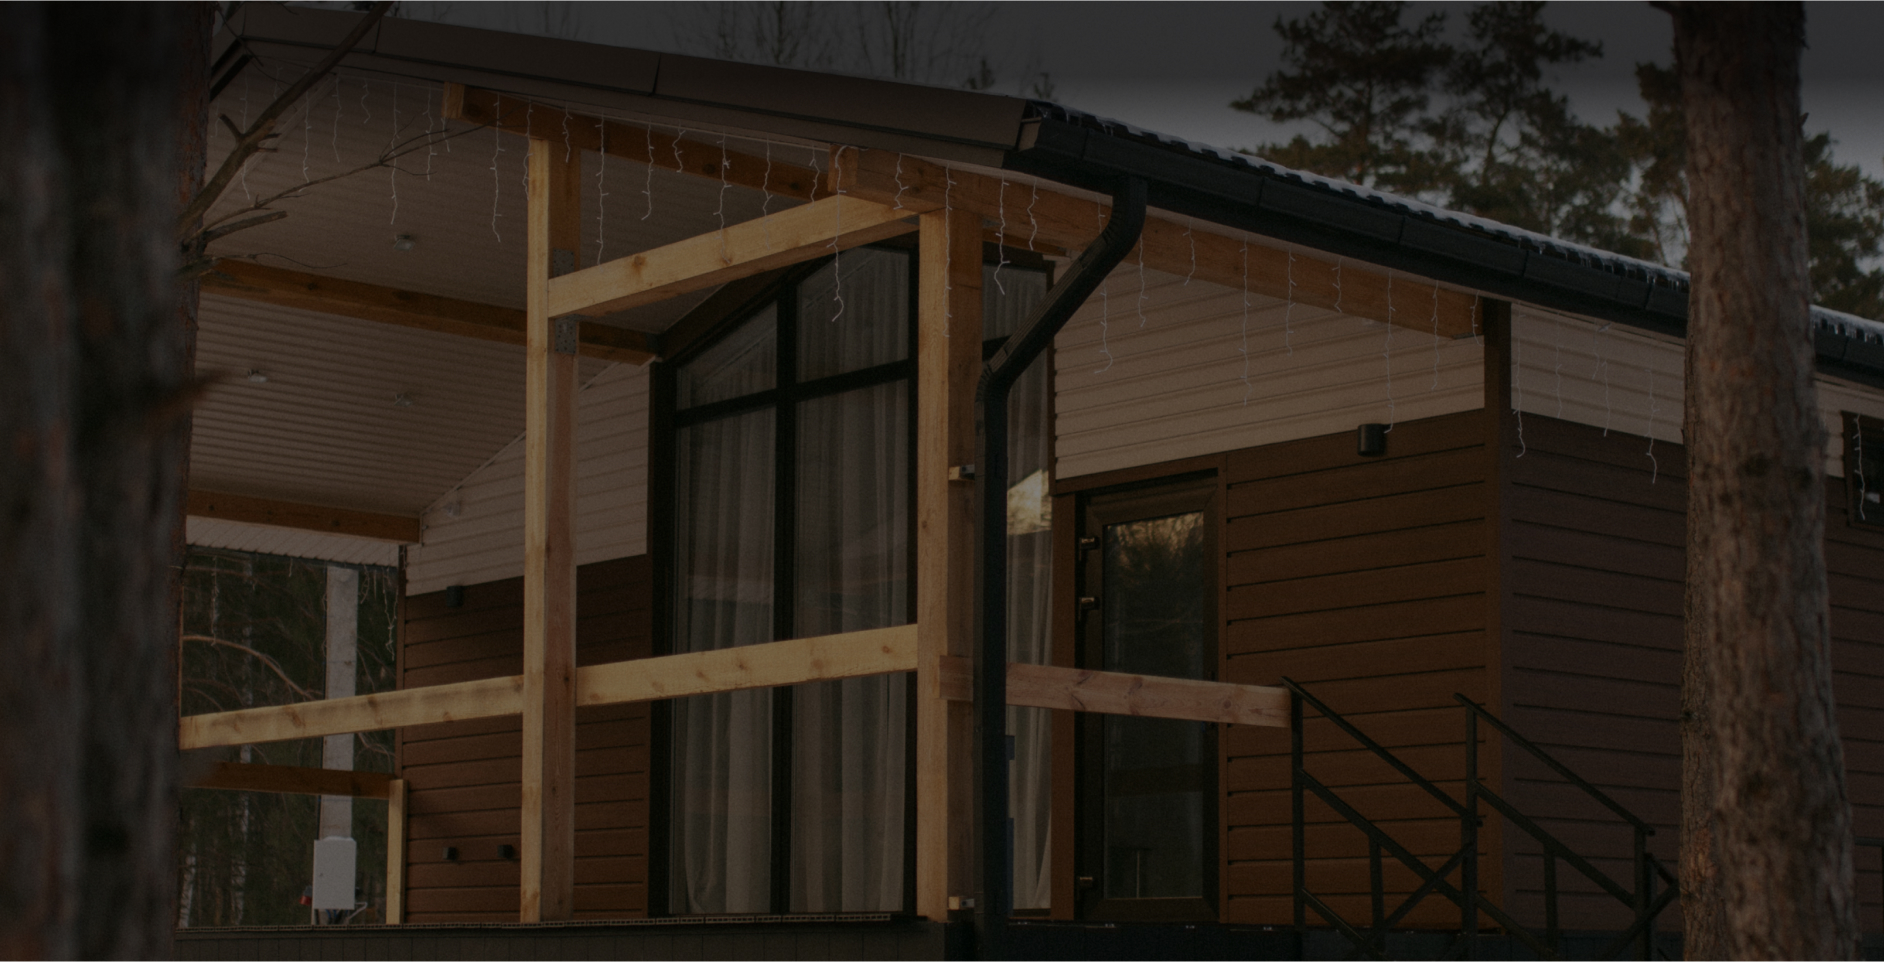
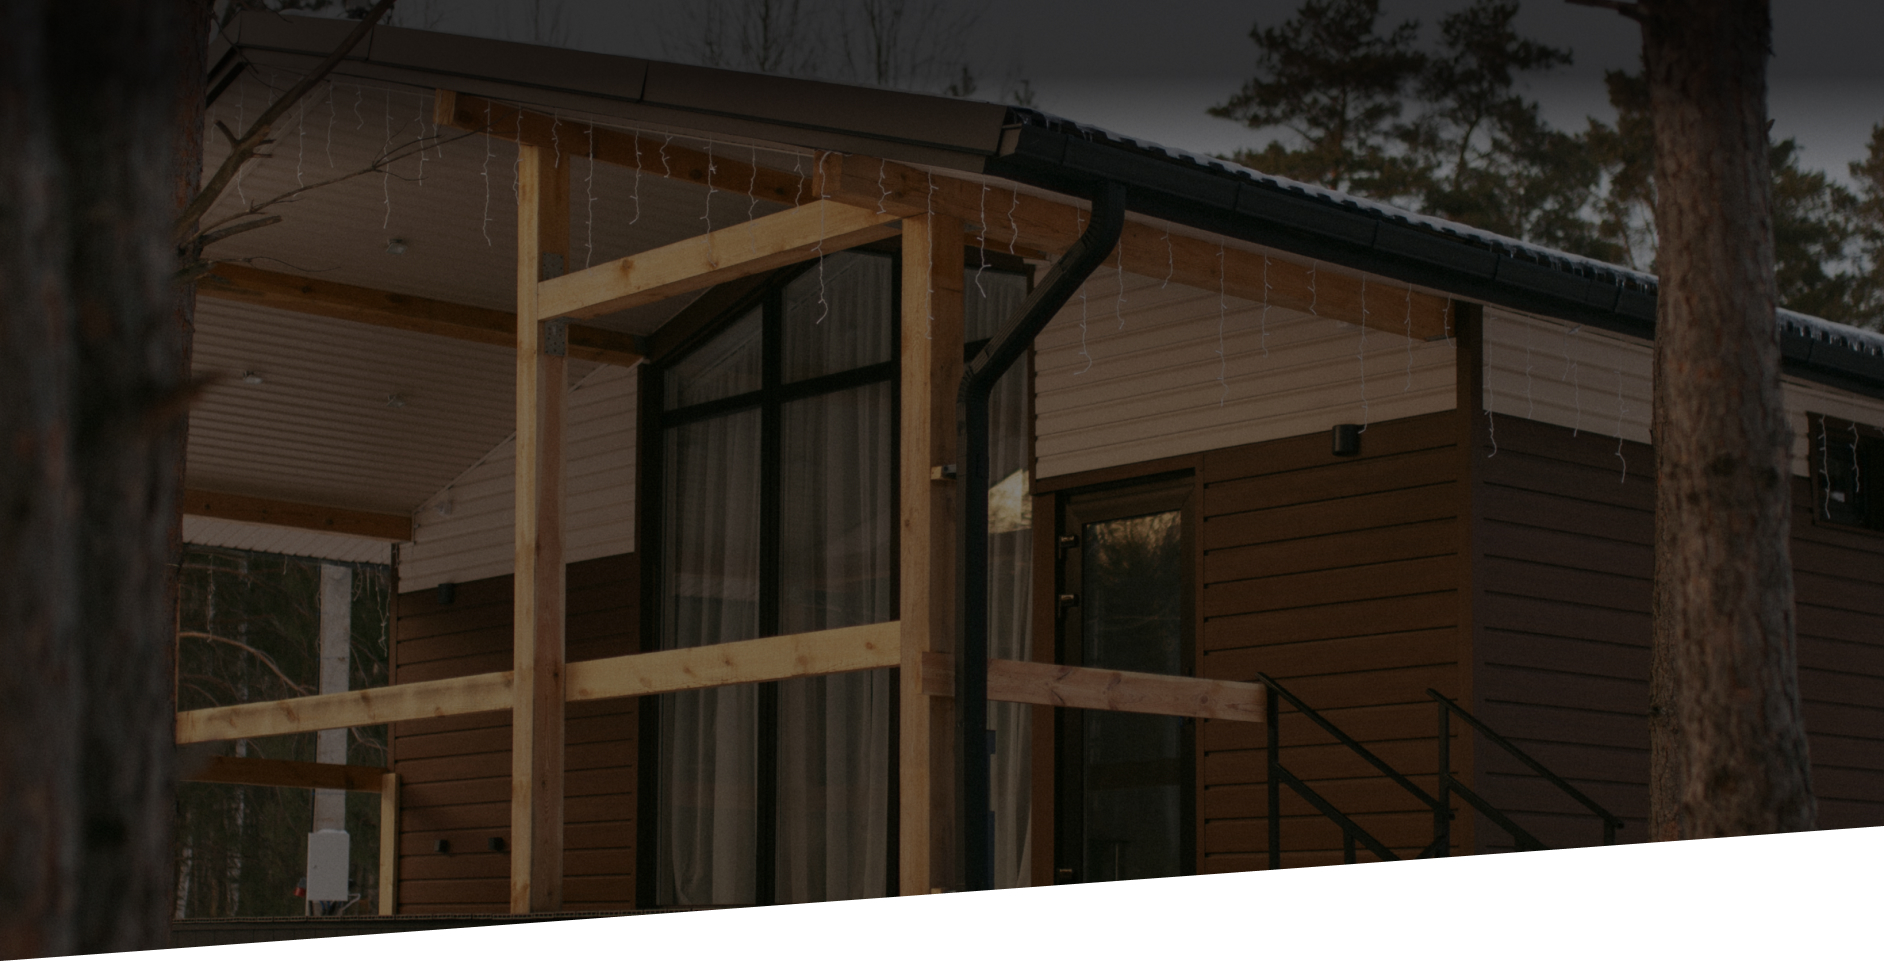
fix: исправляет неточности

diff --git a/source/sass/blocks/banner.scss b/source/sass/blocks/banner.scss
@@ -1,4 +1,5 @@
 .banner {
+  width: 1920px;
   margin: 0 auto;
   display: grid;
 }
